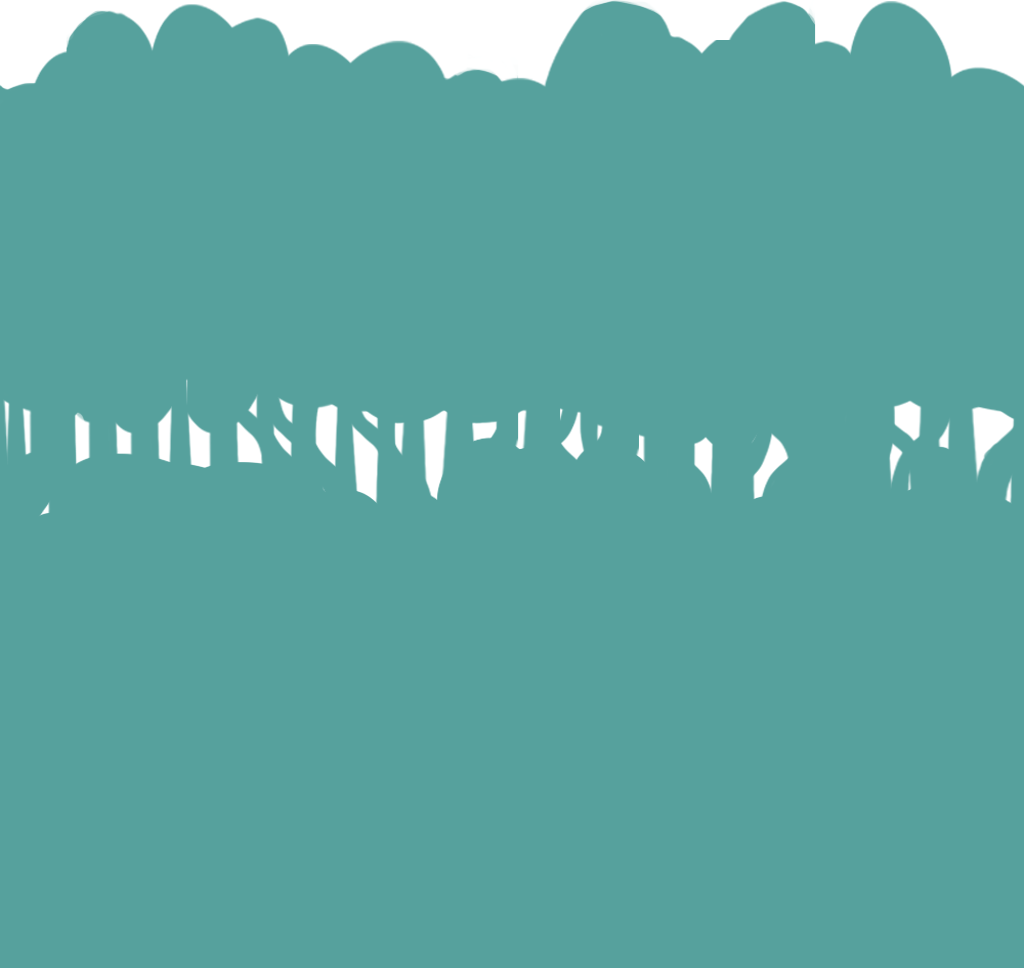
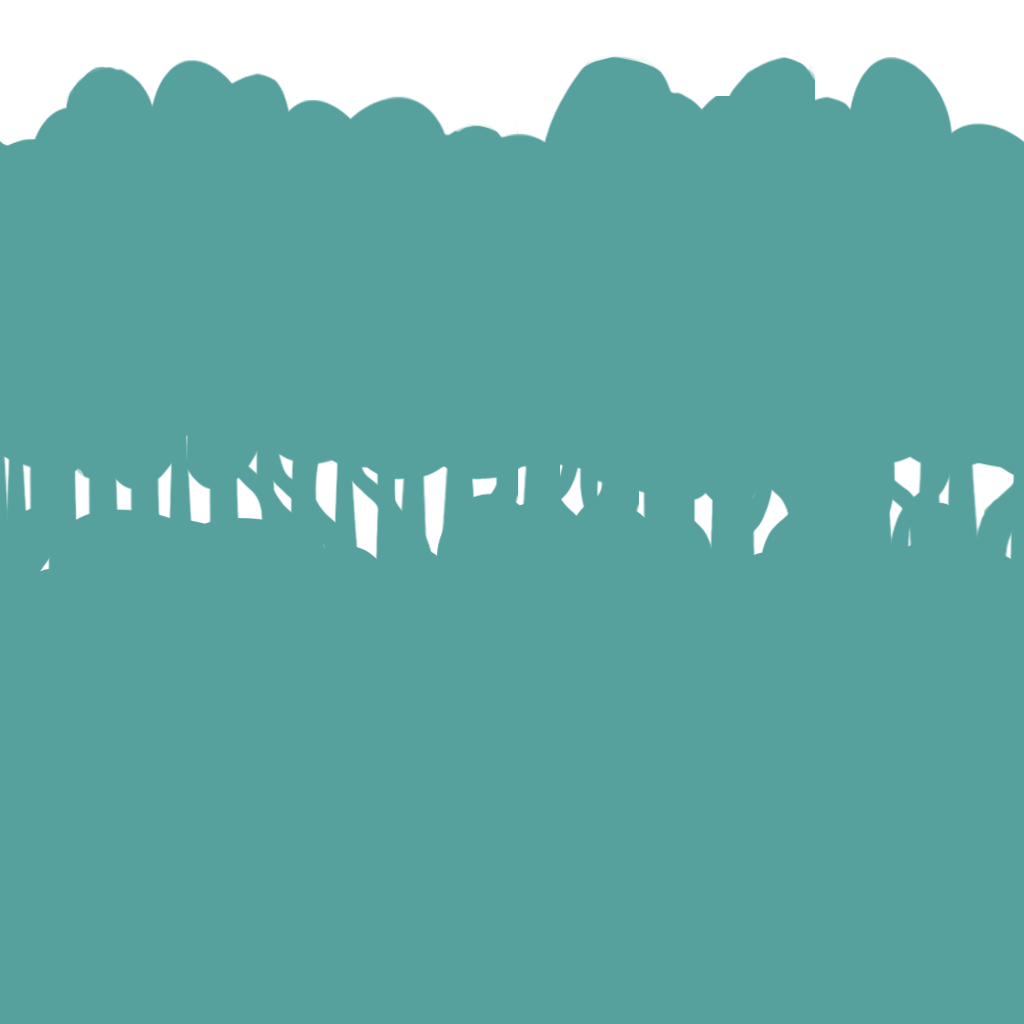
调整大小

diff --git a/core/src/com/pending/game/EntityDao.java b/core/src/com/pending/game/EntityDao.java
@@ -184,19 +184,19 @@ public class EntityDao {
 		AshleyManager ashleyManager = GlobalInline.instance.getAshleyManager();
 		Entity entity = ashleyManager.engine.createEntity();
 		
+		TextureComponent textureComponent = ashleyManager.engine.createComponent(TextureComponent.class);
+		Texture texture = Assets.instance.get(assets, Texture.class);
+//		texture.setWrap(Texture.TextureWrap.MirroredRepeat, Texture.TextureWrap.MirroredRepeat); // 默认就是重复的
+		textureComponent.textureRegion = new TextureRegion(texture, (int)GameConfig.width, texture.getHeight());
+		entity.add(textureComponent);
+		
 		TransformComponent transformComponent = ashleyManager.engine.createComponent(TransformComponent.class);
 		transformComponent.position.set(0, 0);
-		transformComponent.width = 1024;
-		transformComponent.height = 968;
+		transformComponent.width = GameConfig.width;
+		transformComponent.height = texture.getHeight();
 		transformComponent.index_z = -index;
 		entity.add(transformComponent);
 		
-		TextureComponent textureComponent = ashleyManager.engine.createComponent(TextureComponent.class);
-		Texture texture = Assets.instance.get(assets, Texture.class);
-		texture.setWrap(Texture.TextureWrap.Repeat, Texture.TextureWrap.Repeat);
-		textureComponent.textureRegion = new TextureRegion(texture, texture.getWidth() * 2, texture.getHeight());
-		
-		entity.add(textureComponent);
 		
 		ScriptComponent scriptComponent = ashleyManager.engine.createComponent(ScriptComponent.class);
 		BgScript bgScript = new BgScript();

diff --git a/core/src/com/pending/game/entityscript/BgScript.java b/core/src/com/pending/game/entityscript/BgScript.java
@@ -24,6 +24,8 @@ public class BgScript extends EntityScript{
 		
 		TransformComponent transformComponent = MapperTools.transformCM.get(entity);
 		
-		transformComponent.position.set(0, GameVar.gameViewport.getCamera().position.y -  GameConfig.height/2 + index * 200);
+		float offet = GameVar.gameViewport.getCamera().position.y/100;
+		
+		transformComponent.position.set(0, GameVar.gameViewport.getCamera().position.y -  GameConfig.height/2 + (index-1) * 200 - offet);
 	}
 }
